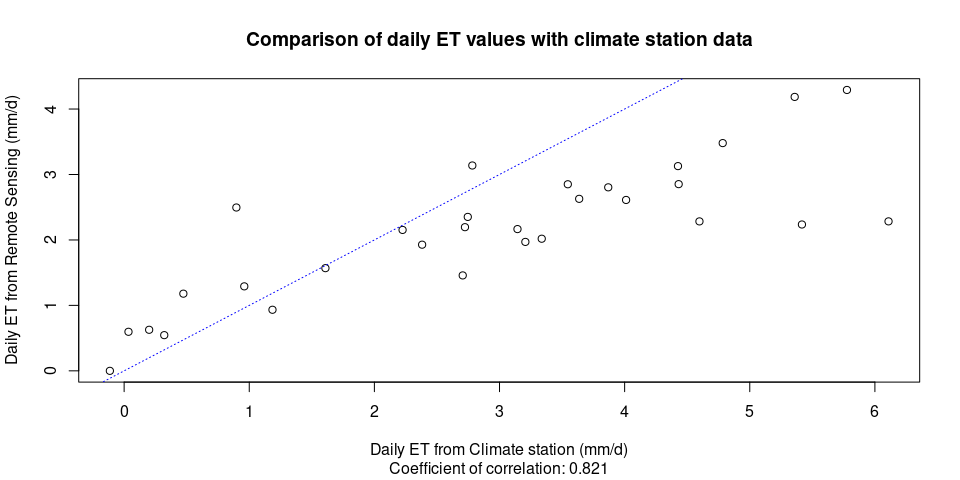
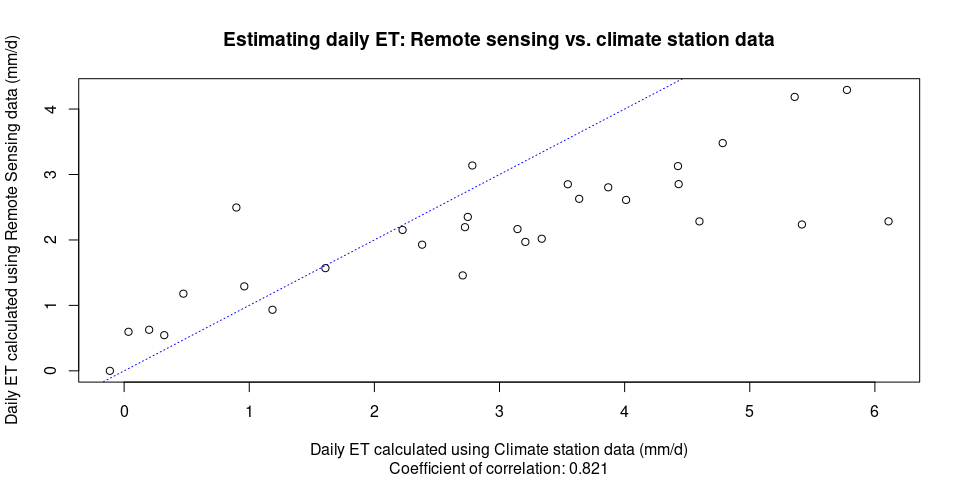
Polish ET comparison plots

Changed region(s): [[0.3125, 0.9062, 0.7188, 0.9688], [0.0, 0.0625, 0.0312, 0.875], [0.2188, 0.0625, 0.8125, 0.125]]

diff --git a/README.md b/README.md
@@ -548,21 +548,21 @@ FMO_DWD$Date = as.character(FMO_DWD$Date)
 ET_comparison = merge(x = FMO_DWD, y = ET_FMO, all.y = TRUE)
 ET_cor = cor(ET_comparison$ET_DWD, y = ET_comparison$ET_RS)
 plot(ET_comparison$ET_DWD, ET_comparison$ET_RS,
-     xlab = "Daily ET from Climate station (mm/d)",
-     ylab = "Daily ET from Remote Sensing (mm/d)",
-     main = "Comparison of daily ET values with climate station data", sub = paste("Coefficient of correlation:", round(ET_cor, 3)))
+     xlab = "Daily ET calculated using Climate station data (mm/d)",
+     ylab = "Daily ET calculated using Remote Sensing data (mm/d)",
+     main = "Estimating daily ET: Remote sensing vs. climate station data", sub = paste("Coefficient of correlation:", round(ET_cor, 3)))
 abline(0, 1, col = "Blue", lty = 3)
 ```
 
 ![](README_files/figure-gfm/unnamed-chunk-22-1.png)<!-- -->
 
 ``` r
-plot(ET_comparison$ET_DWD ~ as.POSIXct(ET_comparison$Date, format = "%Y-%m-%d"), xaxt = "none", ylab = "ET (mm/d)", xlab = "", type = "b", lty = 2, col = "darkgreen", main = "Daily Evapotranspiration at FMO")
+plot(ET_comparison$ET_DWD ~ as.POSIXct(ET_comparison$Date, format = "%Y-%m-%d"), xaxt = "none", ylab = "Evapotranspiration (mm/d)", xlab = "", type = "b", lty = 2, col = "darkgreen", main = "Daily Evapotranspiration at Flughafen Münster/Osnabrück")
 axis(1, at = as.POSIXct(ET_FMO$Date, format = "%Y-%m-%d"), labels = format(as.POSIXct(ET_FMO$Date, format = "%Y-%m-%d"), format = "%m/%Y"), las = 2, cex.axis = 0.8)
 title(xlab = "Time", line = 4)
 par(new = TRUE)
 plot(ET_comparison$ET_RS ~ as.POSIXct(ET_comparison$Date, format = "%Y-%m-%d"), xlab = "", ylab = "", axes = FALSE, type = "b", lty = 2, col = "blue")
-legend(x = "bottomleft", legend = c("Remote Sensing", "DWD Climate Station"), col = c("blue", "darkgreen"), lty = 2, cex = 0.8, inset = 0.01)
+legend(title = "ET calculated using", x = "bottomleft", legend = c("Remote Sensing data", "DWD Climate Station data"), col = c("blue", "darkgreen"), lty = 2, cex = 0.8, inset = 0.01, pch = 1, title.adj = 0.1, seg.len = 3)
 ```
 
 ![](README_files/figure-gfm/unnamed-chunk-22-2.png)<!-- -->
